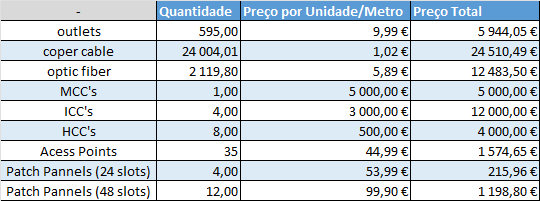
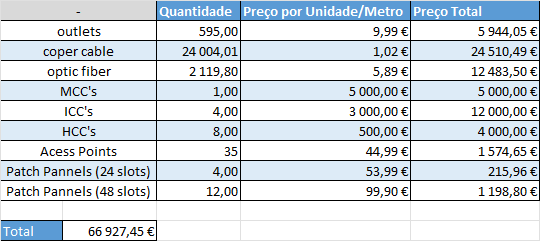
Update on budget: total

diff --git a/doc/sprint1/planning.md b/doc/sprint1/planning.md
@@ -45,5 +45,4 @@
 - The prices used for this budget are based on a average of the Amazon market list for these products.
 
 ![budget.png](budget.png)
-
-
+![total_budget.png](total_budget.png)
